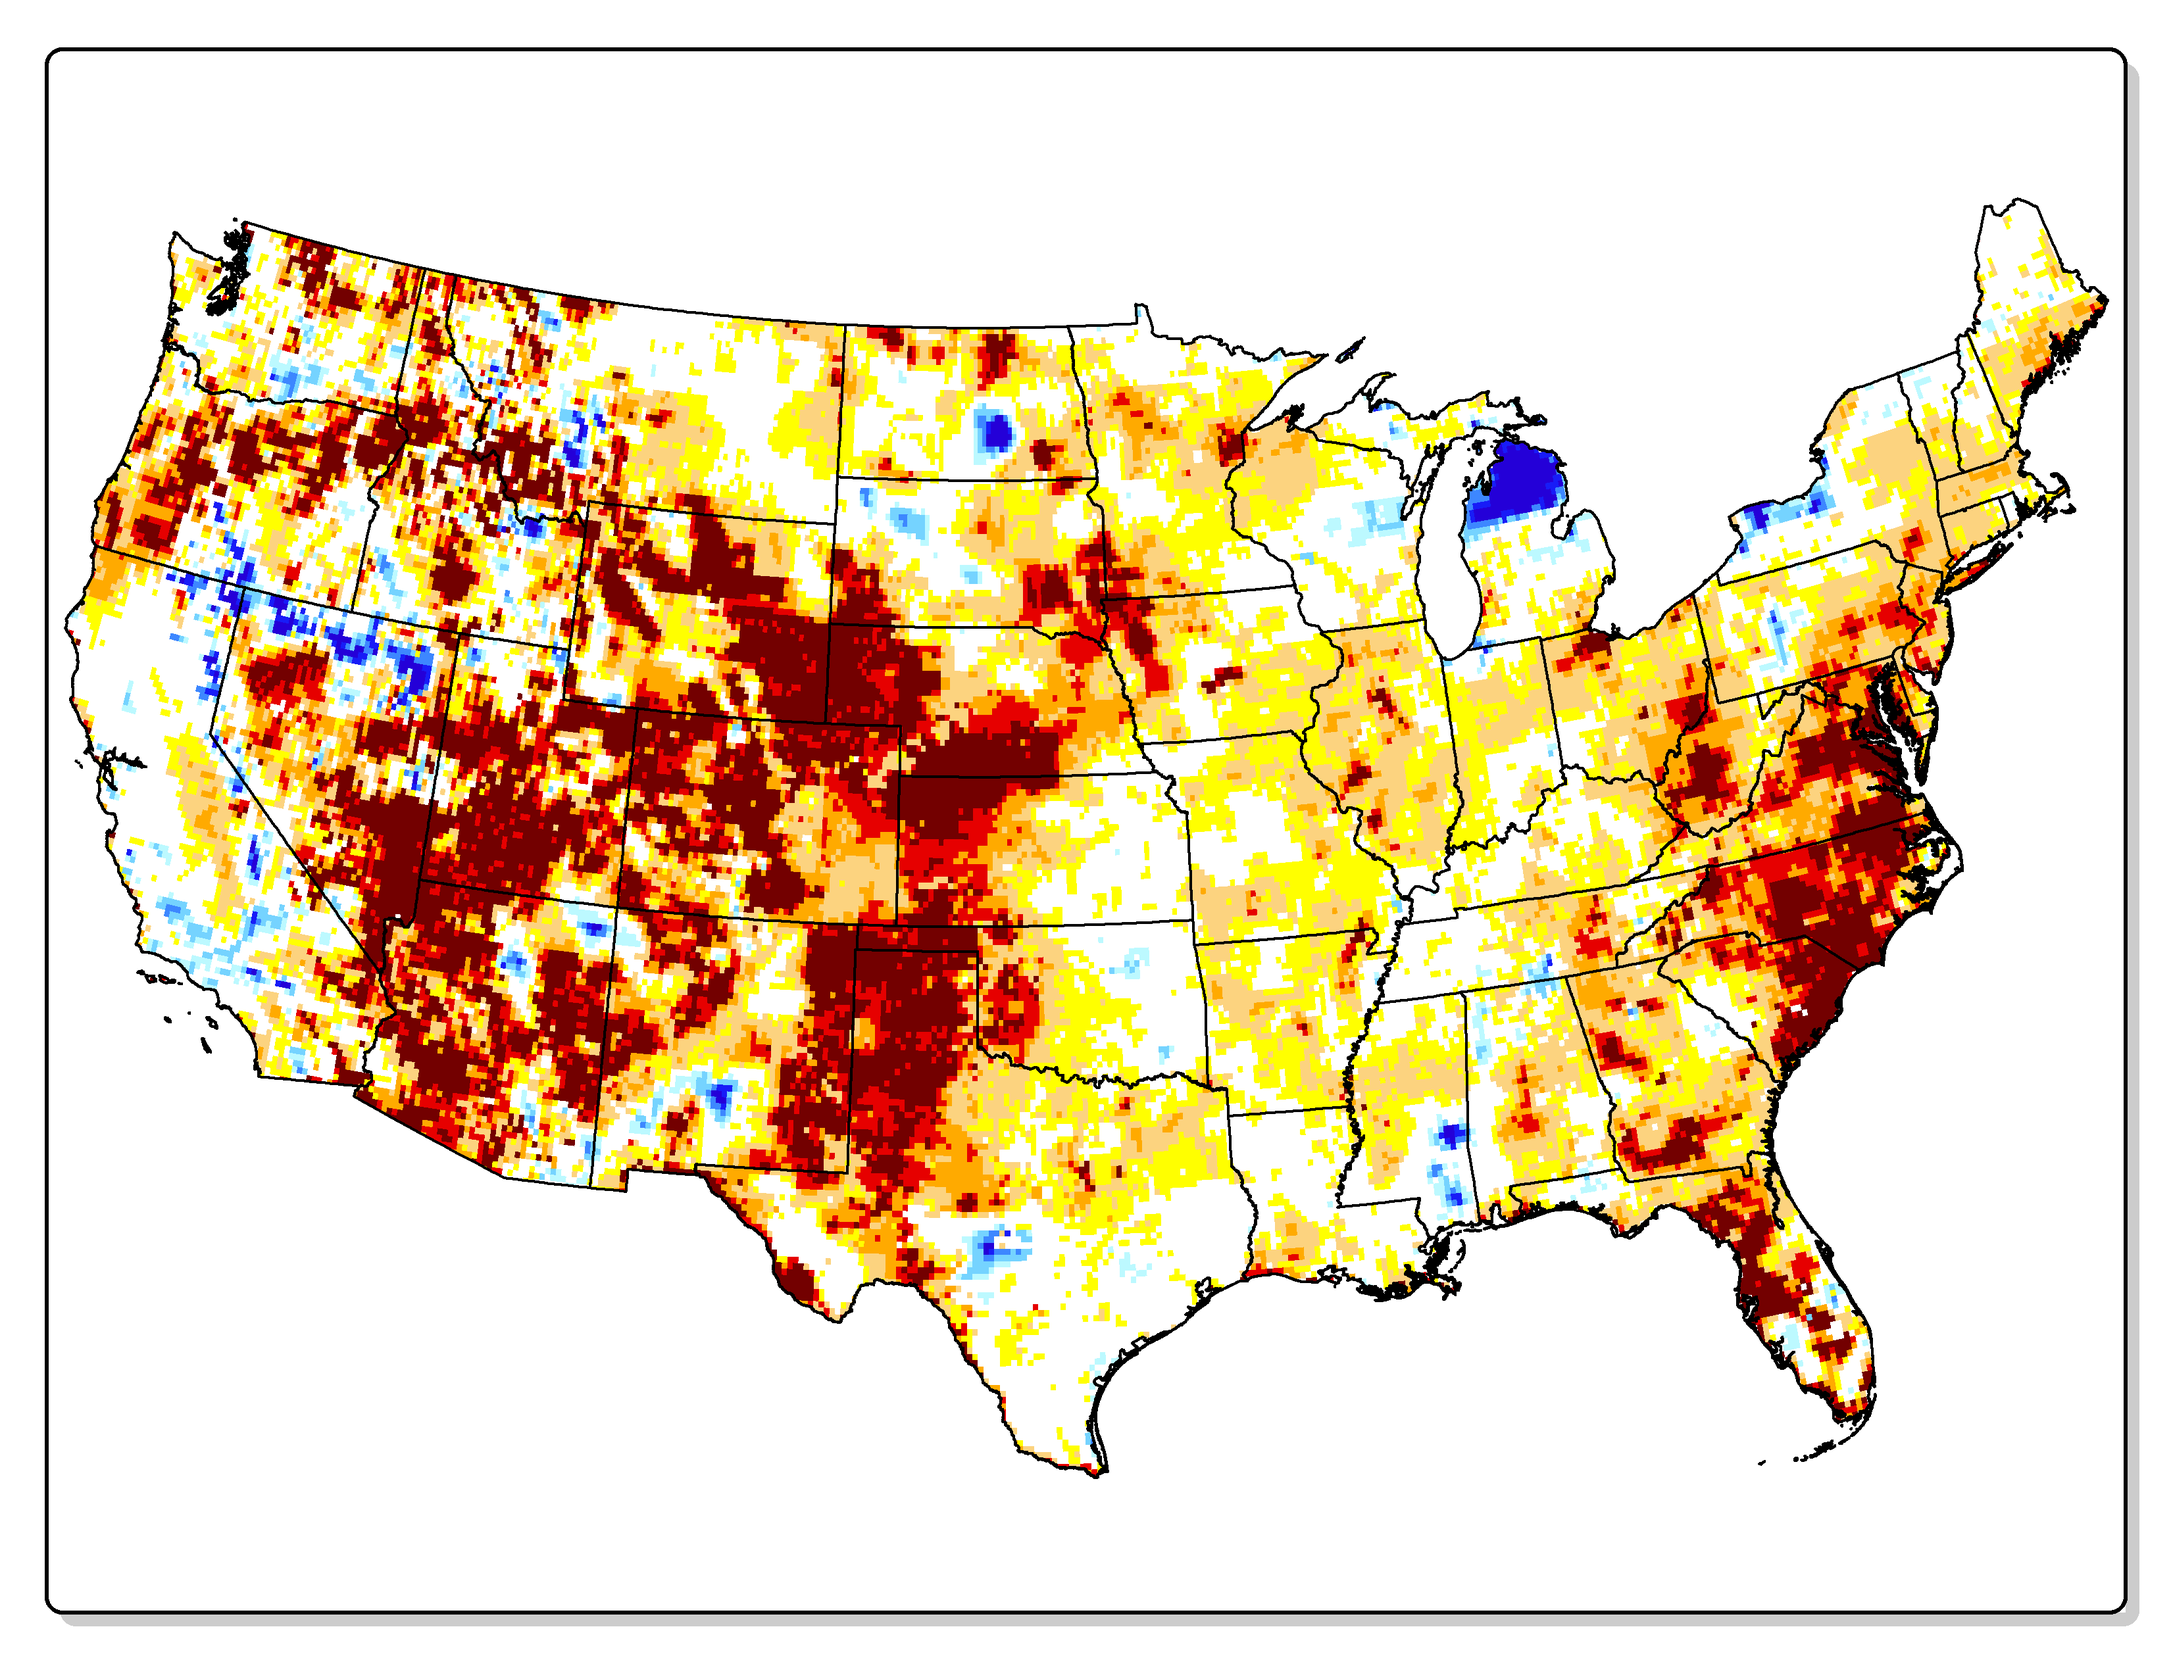
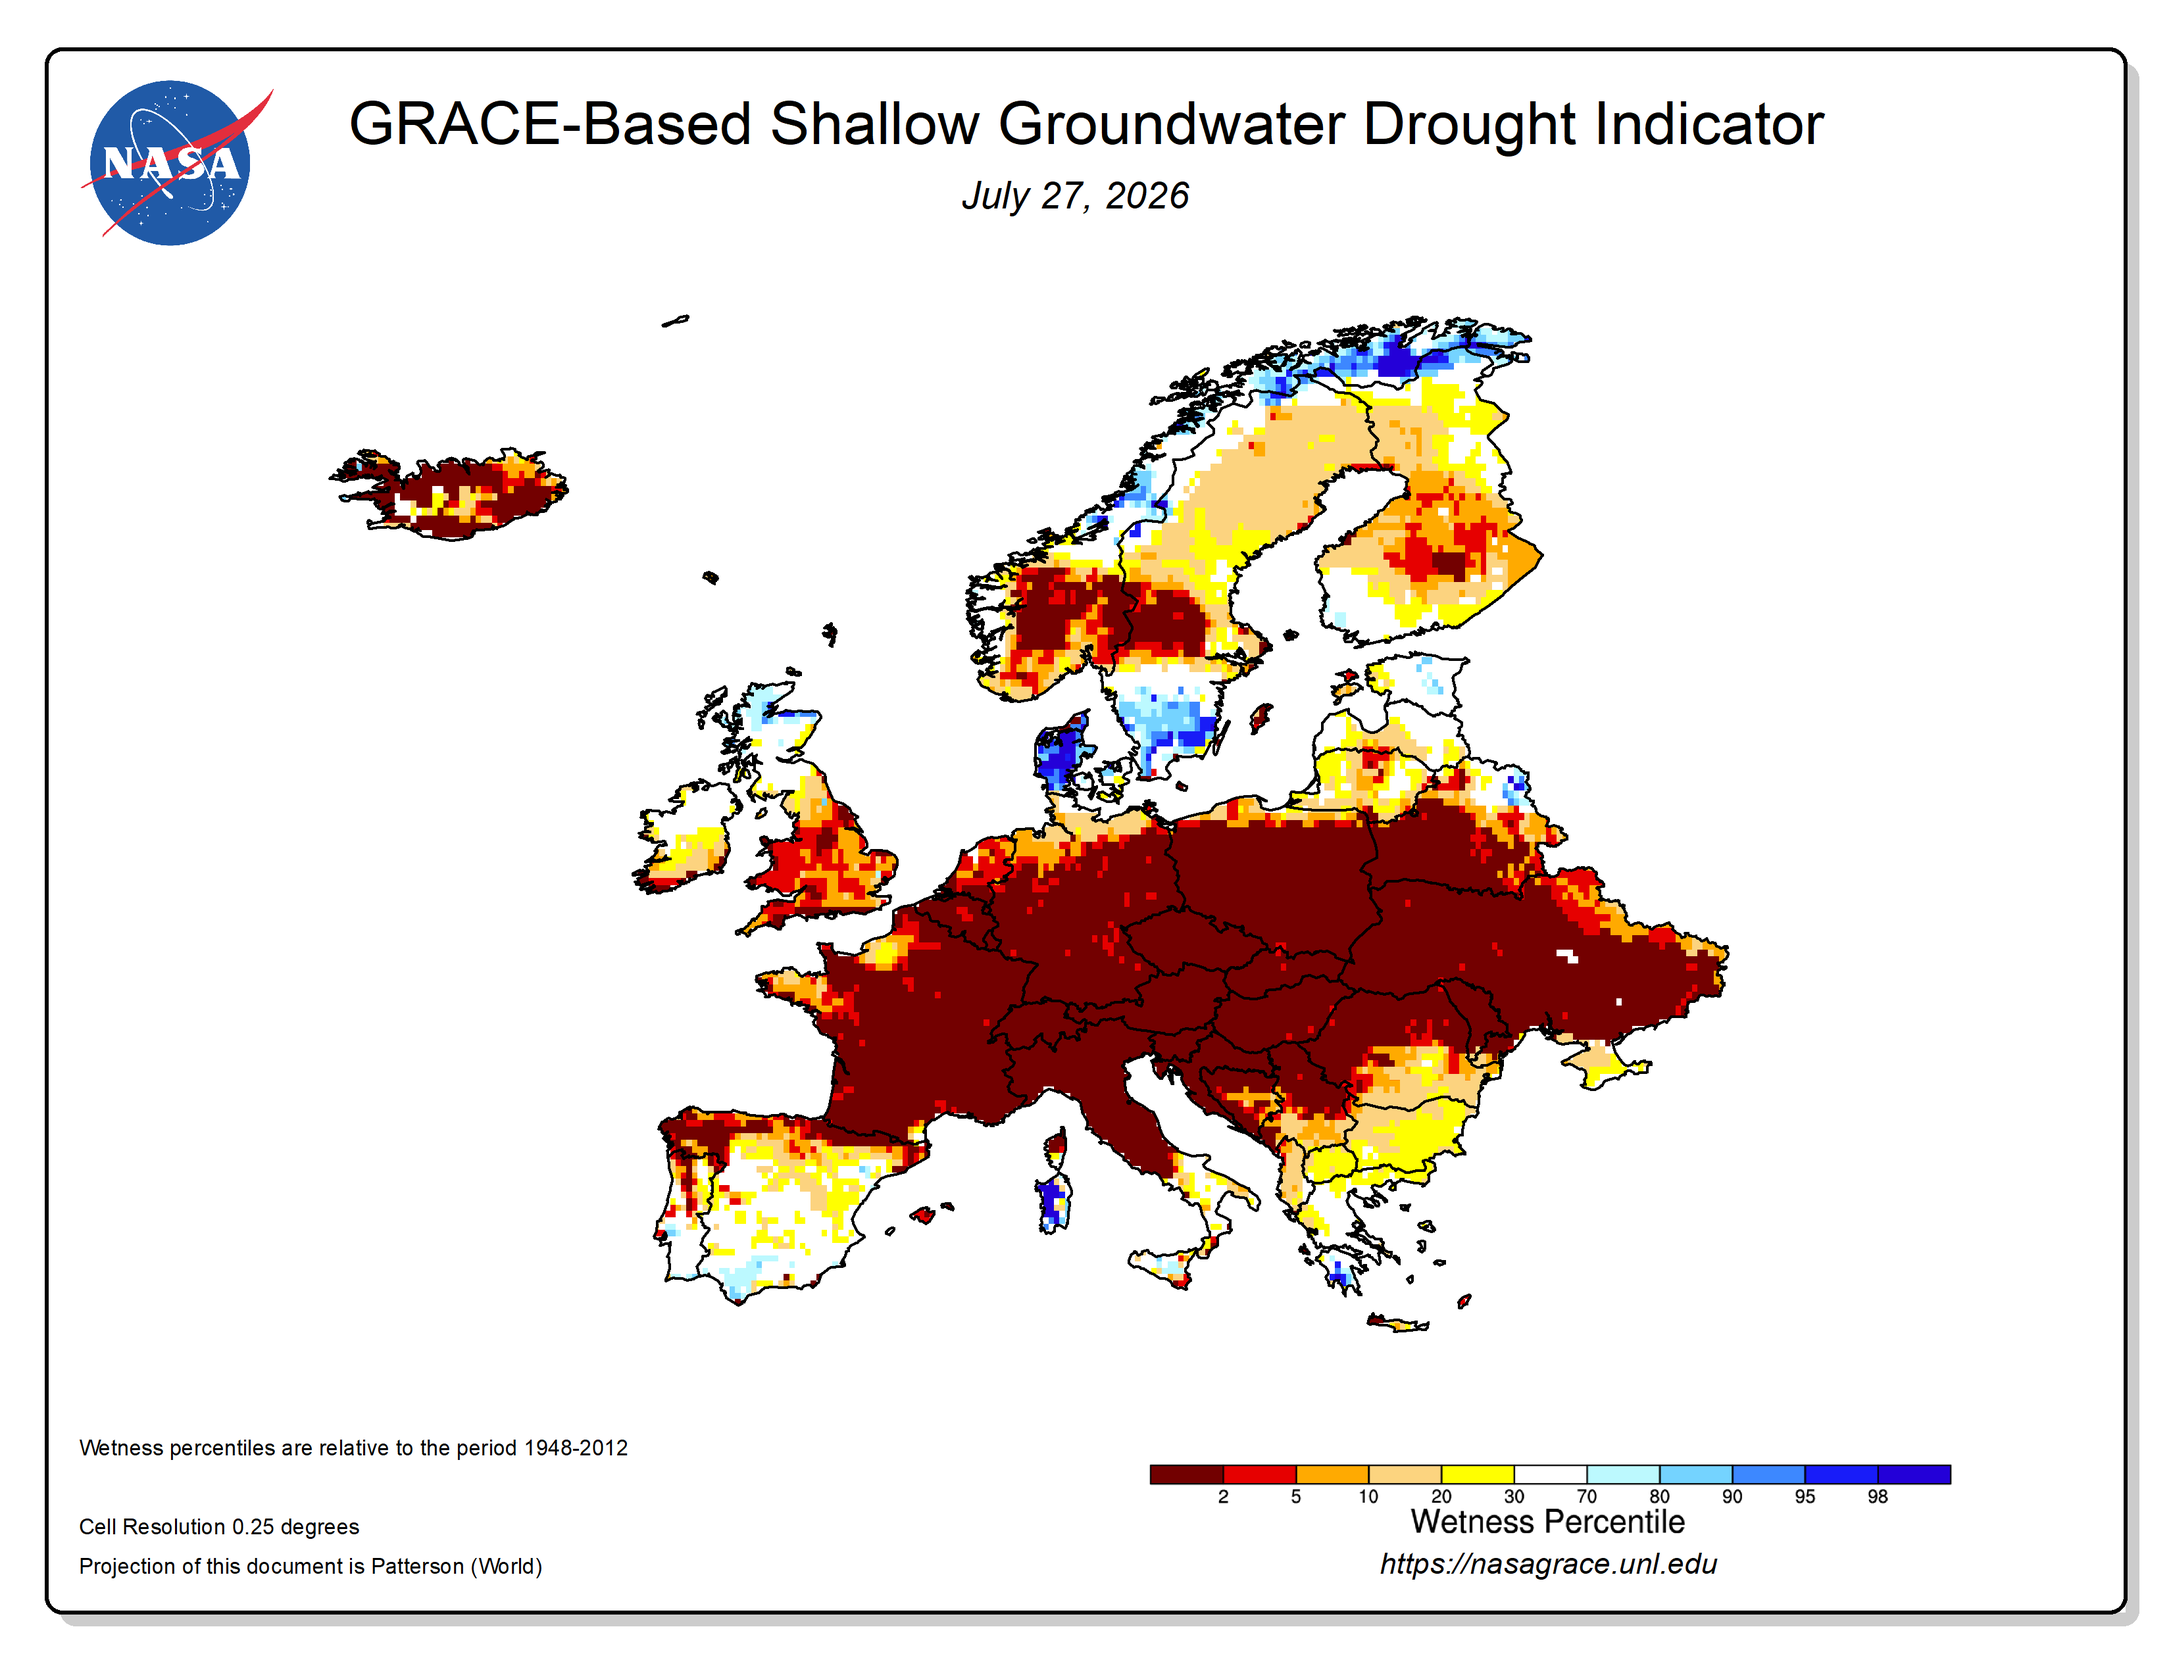
fix(mirror): show NASA's Europe map, not the contiguous US
The homepage rendered the mirrored UNL PNG under "NASA's current map" in
all three locales. That file was the contiguous-US product — a Romanian or
Hungarian reader scrolled past the NUTS-2 charts and hit a map of Kansas.

UNL publishes two trees. /data/Web/ is CONUS at 0.125 degree; the
/globaldata/<stamp>/ tree is the 0.25 degree global run cut into GLOBAL,
EU, AF, AS, AU, NA, SA and INDIA. Switch to the EU cut. It is also the
better artifact: NASA branding, title, date, colour scale and resolution
note, where the CONUS file is a bare unlabelled map.

is_current() now also compares the pointer's recorded URLs against the
URLs today's config would build. Without that, a source swap leaves week
and filenames both matching, so the daily job skips forever and keeps
serving the old source — which is how the CONUS map survived. Changing
where we mirror from now invalidates the cache. Confirmed: the first run
after this change re-fetched rather than skipping; the second skipped.

The EU render's footer reads "1948-2012", the operational baseline, while
the NUTS-2 numbers use V3.0's 1948-2014. Both now appear on the homepage,
so methodology.md and the methodology page say so explicitly rather than
leaving a reader to find the contradiction.

Verified: EU and CONUS publish in lockstep across the 8 weeks to
2026-07-27; dist PNG sha matches the EU download; 10 routes build; all
three homepage locales reference the new file; freshness 0 weeks behind.

diff --git a/pipeline/src/pipeline/unl_mirror.py b/pipeline/src/pipeline/unl_mirror.py
@@ -2,16 +2,36 @@
 
 UNL/National Drought Mitigation Center publishes the operational GRACE-DA
 percentile maps with ~2-9 day latency. URL pattern:
-  https://nasagrace.unl.edu/data/Web/GRACE_GWS_<YYYYMMDD>.png    (groundwater)
-  https://nasagrace.unl.edu/data/Web/GRACE_RTZSM_<YYYYMMDD>.png  (root-zone)
-  https://nasagrace.unl.edu/data/Web/GRACE_SFSM_<YYYYMMDD>.png   (surface)
+  https://nasagrace.unl.edu/globaldata/<YYYYMMDD>/GRACE_GWS_EU_<YYYYMMDD>.png
+  https://nasagrace.unl.edu/globaldata/<YYYYMMDD>/GRACE_RTZSM_EU_<YYYYMMDD>.png
+  https://nasagrace.unl.edu/globaldata/<YYYYMMDD>/GRACE_SFSM_EU_<YYYYMMDD>.png
+
+**Use the EU cut, not CONUS.** UNL publishes two trees. `/data/Web/` is the
+contiguous-US product at 0.125 degree; `/globaldata/<stamp>/` is the 0.25 degree
+global run, cut into GLOBAL, EU, AF, AS, AU, NA, SA and INDIA. This site is
+about Romania and Hungary, so only the EU cut belongs on it — mirroring
+`/data/Web/` put a map of Kansas on the front page under the heading "NASA's
+current map". The EU render is also the better artifact: it carries NASA
+branding, a title, the date, the colour scale and the resolution note, where
+the CONUS file is a bare unlabelled map.
+
+The two trees publish in lockstep — verified across the eight weeks from
+2026-06-08 to 2026-07-27, every one of which had CONUS, EU and the GeoTIFF all
+returning 200 for the same stamp. So the probe cadence below is unchanged.
 
 Files are Monday-stamped. We probe back from the most recent Monday until we
-get a 200, then mirror the three layers + write a manifest.
+get a 200, then mirror the selected layers + write a manifest.
+
+**Baseline caveat.** The EU render's own footer reads "Wetness percentiles are
+relative to the period 1948-2012" — the operational global stream's baseline,
+which is NOT the 1948-2014 baseline of the GRACEDADM V3.0 archive we ingest for
+the NUTS-2 numbers. Both appear on the homepage, so docs/methodology.md carries
+an explicit note reconciling them. Do not quietly align one to the other.
 
 This is the Path C approach: show NASA's official current map alongside our
-own archive-derived NUTS-2 trend chart. Path B (compute our own percentiles
-from the EP daily product) is the v2 upgrade documented in docs/path-b-plan.md.
+own archive-derived NUTS-2 trend chart. See docs/path-b-plan.md — note that
+`/globaldata/<stamp>/gws_perc_025deg_GL_<stamp>.tif` is the operational
+percentile grid itself, which changes what Path B needs to do.
 """
 
 from __future__ import annotations
@@ -26,11 +46,12 @@ from pathlib import Path
 
 import requests
 
-UNL_BASE = "https://nasagrace.unl.edu/data/Web"
+UNL_BASE = "https://nasagrace.unl.edu/globaldata"
+# The stamp appears twice: once as the directory, once in the filename.
 LAYERS = {
-    "gws": "GRACE_GWS_{stamp}.png",
-    "rtzsm": "GRACE_RTZSM_{stamp}.png",
-    "sfsm": "GRACE_SFSM_{stamp}.png",
+    "gws": "{stamp}/GRACE_GWS_EU_{stamp}.png",
+    "rtzsm": "{stamp}/GRACE_RTZSM_EU_{stamp}.png",
+    "sfsm": "{stamp}/GRACE_SFSM_EU_{stamp}.png",
 }
 LAYER_NAMES = {
     "gws": "Groundwater storage percentile",
@@ -39,13 +60,16 @@ LAYER_NAMES = {
 }
 
 
+def layer_url(key: str, week: date) -> str:
+    return f"{UNL_BASE}/{LAYERS[key].format(stamp=week.strftime('%Y%m%d'))}"
+
+
 def probe_latest(today: date | None = None, max_lookback_weeks: int = 12) -> date:
     today = today or date.today()
     monday = today - timedelta(days=today.weekday())
     for weeks_back in range(max_lookback_weeks):
         candidate = monday - timedelta(weeks=weeks_back)
-        url = f"{UNL_BASE}/{LAYERS['gws'].format(stamp=candidate.strftime('%Y%m%d'))}"
-        r = requests.head(url, timeout=10, allow_redirects=True)
+        r = requests.head(layer_url("gws", candidate), timeout=10, allow_redirects=True)
         if r.status_code == 200:
             return candidate
     raise RuntimeError(f"No UNL map found in the {max_lookback_weeks} weeks before {monday}")
@@ -81,11 +105,18 @@ def resolve_layers(layers: Sequence[str] | None) -> list[str]:
 
 
 def is_current(pointer_path: Path, out_dir: Path, week: date, layers: Sequence[str]) -> bool:
-    """True when the pointer already names `week` and every selected layer is on disk.
+    """True when the pointer already names `week`, was fetched from the URLs we
+    would use today, and every selected layer is on disk.
 
     Lets the daily job be a no-op on the six days out of seven when UNL has not
     published anything new, instead of re-downloading and rewriting the pointer's
     `fetched_at` — which would commit a no-change diff every single day.
+
+    The URL comparison is what makes a change to UNL_BASE/LAYERS self-healing.
+    Without it, week and filenames both still match after a source swap, so the
+    job would skip forever and keep serving imagery from the old source — which
+    is exactly how the CONUS map survived on the homepage. Changing where we
+    mirror from must invalidate the cache.
     """
     if not pointer_path.exists():
         return False
@@ -94,6 +125,9 @@ def is_current(pointer_path: Path, out_dir: Path, week: date, layers: Sequence[s
     except json.JSONDecodeError:
         return False
     if pointer.get("week_start") != week.isoformat():
+        return False
+    recorded = pointer.get("layers") or {}
+    if any(recorded.get(key) != layer_url(key, week) for key in layers):
         return False
     week_dir = out_dir / week.isoformat()
     return all((week_dir / f"{key}.png").exists() for key in layers)
@@ -106,8 +140,7 @@ def mirror(week_start: date, out_dir: Path, layers: Sequence[str] | None = None)
     week_dir.mkdir(parents=True, exist_ok=True)
     manifest = {"week_start": week_start.isoformat(), "layers": {}}
     for key in selected:
-        fmt = LAYERS[key]
-        url = f"{UNL_BASE}/{fmt.format(stamp=week_start.strftime('%Y%m%d'))}"
+        url = layer_url(key, week_start)
         r = requests.get(url, timeout=60)
         r.raise_for_status()
         out = week_dir / f"{key}.png"

diff --git a/docs/methodology.md b/docs/methodology.md
@@ -20,6 +20,17 @@ The product is generated at NASA Goddard Space Flight Center by assimilating GRA
 > meteorological dataset (which ends in 2012). V3.0 is forced by ECMWF data
 > instead — see the forcing note above. Do not quote 1948–2012 for this product,
 > and note the baseline is ~66 years, not 75.
+>
+> **But the map on the homepage is baselined 1948–2012, and says so.** The
+> current-week map we mirror is the operational global run (Europe cut), and its
+> own footer reads "Wetness percentiles are relative to the period 1948-2012".
+> That is the older baseline described in the paragraph above. So the homepage
+> carries both figures: 1948–2012 rendered into the map image, 1948–2014 behind
+> the NUTS-2 numbers. This is not an inconsistency we introduced — they are two
+> NASA products on two release lines, and neither one is ours to restate. Read
+> the map as the current picture and the regional series as the archive-grade
+> record. Do not difference a map colour against a NUTS-2 value and expect them
+> to agree to the percentile point.
 - Root-zone soil moisture and surface soil moisture percentiles are available and may be added later.
 
 ## Spatial resolution
